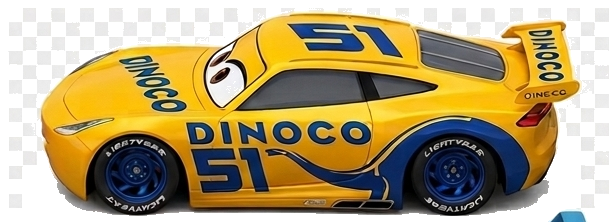
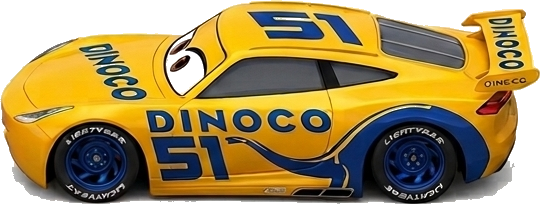
NASCAR dashboard, journal button, improved car detourage
Dashboard:
- Dark cockpit design with 15 LED speed indicators (green→red, blink at max)
- Vertical fuel + tire gauges on the left (bar + number + label)
- Tour (top-left) and Moteur (top-right) in teal/red display font
- Large central VITESSE like a NASCAR dash

Journal:
- Removed always-visible green strip; now a 📡 Journal button in header
- Opens modal with last 50 entries
- Rival entries now prefixed "[#NUM NOM]" for clarity

Car images:
- Re-extracted all 6 Pixar PNGs: better flood fill + grow-from-transparent pass
  reduced leftover background from 12–36% to <2% of visible pixels

https://claude.ai/code/session_016ULjS5sK1wzyLYwtGwC2Eo

diff --git a/index.html b/index.html
@@ -103,23 +103,42 @@ body{background:#d4d8df;color:#1e293b;font-family:'Segoe UI',Arial,sans-serif;mi
 .wall-consequence{background:rgba(30,58,138,.15);color:#1e3a8a}
 .apron-consequence{background:rgba(146,64,14,.15);color:#92400e}
 
-/* ─ JOURNAL (herbe) ──────────────────────── */
-.journal-wrap{background:#15803d;padding:.5rem .7rem;flex:1;min-height:0}
-.info-lbl{font-size:.68rem;text-transform:uppercase;letter-spacing:.08em;color:rgba(255,255,255,.55);margin-bottom:.3rem;font-weight:700}
-.log-box{max-height:120px;overflow-y:auto;display:flex;flex-direction:column;gap:.08rem}
-.le{font-size:.78rem;color:#bbf7d0;line-height:1.35;padding:.06rem 0;border-bottom:1px solid rgba(255,255,255,.07)}
-.le.imp{color:#fde68a}.le.dan{color:#fca5a5}.le.good{color:#86efac}.le.neu{color:rgba(255,255,255,.45)}
+/* ─ JOURNAL (modal uniquement) ──────────── */
+.le{font-size:.78rem;color:#bbf7d0;line-height:1.35;padding:.07rem .2rem;border-bottom:1px solid rgba(255,255,255,.06)}
+.le.imp{color:#fde68a}.le.dan{color:#fca5a5}.le.good{color:#86efac}.le.neu{color:rgba(255,255,255,.4)}
+.log-modal-bg{background:#15803d;padding:.5rem .6rem;border-radius:.45rem;max-height:52vh;overflow-y:auto;display:flex;flex-direction:column;gap:.04rem}
+.journal-btn{border:none;background:rgba(255,255,255,.1);color:#94a3b8;font-size:.68rem;cursor:pointer;padding:.18rem .4rem;border-radius:.3rem;font-weight:700;letter-spacing:.04em}
+.journal-btn:hover{background:rgba(255,255,255,.2);color:#fff}
 
-/* ─ HABITACLE (tableau de bord) ─────────── */
-.gauges-bar{background:#0f172a;padding:.55rem .5rem;margin:0}
-.gauges{display:grid;grid-template-columns:repeat(3,1fr);gap:.4rem}
-.gauge{display:flex;flex-direction:column;align-items:center;gap:.18rem;padding:.5rem .3rem .45rem;background:#1e293b;border-radius:.5rem;border:1px solid #334155}
-.gico{font-size:1.5rem;line-height:1}
-.gval{font-size:2rem;font-weight:900;color:#fb923c;line-height:1.1}
-.gval.gwarn{color:#dc2626;animation:pulse-pip 1s infinite}
-.glbl{font-size:.72rem;text-transform:uppercase;letter-spacing:.06em;color:#64748b;font-weight:700}
-.gbar-wrap{width:90%;height:7px;background:#334155;border-radius:4px;overflow:hidden}
-.gbar{height:100%;border-radius:4px;transition:width .35s,background .35s}
+/* ─ TABLEAU DE BORD NASCAR ──────────────── */
+.gauges-bar{background:#080c10;padding:.35rem .45rem .4rem}
+.dash-leds{display:flex;justify-content:center;gap:3px;margin-bottom:.3rem}
+.dash-led{width:12px;height:12px;border-radius:50%;transition:all .2s;flex-shrink:0}
+.dash-led.off{background:#111827}
+.dash-led.spd1{background:#22c55e;box-shadow:0 0 7px #22c55e}
+.dash-led.spd2{background:#84cc16;box-shadow:0 0 7px #84cc16}
+.dash-led.spd3{background:#eab308;box-shadow:0 0 7px #eab308}
+.dash-led.spd4{background:#f97316;box-shadow:0 0 7px #f97316}
+.dash-led.spd5{background:#ef4444;box-shadow:0 0 7px #ef4444}
+@keyframes led-pulse{0%,100%{opacity:1;transform:scale(1)}50%{opacity:.15;transform:scale(.75)}}
+.dash-led.pulse{animation:led-pulse .38s infinite}
+.dash-main{display:flex;gap:.3rem;align-items:stretch;min-height:75px}
+.dash-side{display:flex;flex-direction:column;gap:.2rem;width:26px;flex-shrink:0}
+.dash-vg{display:flex;flex-direction:column;align-items:center;gap:.05rem;flex:1}
+.dash-vg-lbl{font-size:.38rem;text-transform:uppercase;color:#374151;letter-spacing:.06em;font-weight:800;line-height:1.1}
+.dash-vg-track{flex:1;width:8px;background:#111827;border-radius:2px;overflow:hidden;position:relative;min-height:22px}
+.dash-vg-fill{position:absolute;bottom:0;left:0;right:0;border-radius:2px;transition:height .3s,background .3s}
+.dash-vg-val{font-size:.58rem;font-weight:700;color:#4b5563;line-height:1}
+.dash-center{flex:1;display:flex;flex-direction:column;gap:.1rem;align-items:center}
+.dash-top{display:grid;grid-template-columns:1fr 1fr;gap:.15rem;width:100%}
+.dash-cell{display:flex;flex-direction:column;align-items:center;gap:.02rem}
+.dash-cell-v{font-size:1.45rem;font-weight:900;color:#2dd4bf;line-height:1.05}
+.dash-cell-v.hot{color:#f87171}
+.dash-cell-v.warn{color:#ef4444;animation:pulse-pip 1s infinite}
+.dash-cell-l{font-size:.38rem;text-transform:uppercase;letter-spacing:.09em;color:#374151;font-weight:700;line-height:1}
+.dash-spd{display:flex;flex-direction:column;align-items:center;gap:.03rem;flex:1;justify-content:center}
+.dash-spd-v{font-size:3.8rem;font-weight:900;color:#2dd4bf;line-height:1}
+.dash-spd-l{font-size:.42rem;text-transform:uppercase;letter-spacing:.12em;color:#374151;font-weight:700}
 
 /* ─ ACTION BAR ───────────────────────────── */
 .action-bar{
@@ -258,8 +277,13 @@ body{background:#d4d8df;color:#1e293b;font-family:'Segoe UI',Arial,sans-serif;mi
       <div class="score-val" id="score-val">0</div>
     </div>
     <div class="hdr-right">
-      <div class="hdr-lbl">Flèches</div>
-      <div class="arr-phase" id="arr-phase">↑ Mur</div>
+      <div style="display:flex;align-items:center;justify-content:flex-end;gap:.5rem;flex-wrap:wrap">
+        <button class="journal-btn" onclick="showJournalModal()">📡 Journal</button>
+        <div>
+          <div class="hdr-lbl">Flèches</div>
+          <div class="arr-phase" id="arr-phase">↑ Mur</div>
+        </div>
+      </div>
     </div>
   </div>
 
@@ -275,16 +299,8 @@ body{background:#d4d8df;color:#1e293b;font-family:'Segoe UI',Arial,sans-serif;mi
       <div class="apron-strip" id="apron-strip"></div>
     </div>
 
-    <!-- Journal (herbe verte) -->
-    <div class="journal-wrap">
-      <div class="info-lbl">📡 Journal de course</div>
-      <div class="log-box" id="log-box"></div>
-    </div>
-
-    <!-- Habitacle (tableau de bord noir/orange) -->
-    <div class="gauges-bar">
-      <div class="gauges" id="gauges"></div>
-    </div>
+    <!-- Tableau de bord NASCAR -->
+    <div class="gauges-bar" id="gauges"></div>
 
   </div>
 
@@ -595,7 +611,7 @@ function processOneRival(){
   }
   if(choiceNeeded){render();showChoiceModal();return;}
   const gaugeDeltas=computeGaugeDeltas(gaugesBefore);
-  S.movedCar=name;S.rivalIdx++;glogAll();
+  S.movedCar=name;S.rivalIdx++;glogAll(name);
   showRivalModal(name,die,gaugeDeltas);
 }
 
@@ -653,7 +669,7 @@ function resolveChoice(dir){
   if(nr===0||nr===ROWS-1)applyPushAgainstEdge(rivalName,nr);
   resolveArrow(rivalName);
   const gaugeDeltas=computeGaugeDeltas(gaugesBefore);
-  S.movedCar=rivalName;S.rivalIdx++;glogAll();
+  S.movedCar=rivalName;S.rivalIdx++;glogAll(rivalName);
   showRivalModal(rivalName,die,gaugeDeltas);
 }
 
@@ -821,13 +837,8 @@ function showEndModal(){
 
 // ── ANIMATIONS ─────────────────────────────────────────────────
 function launchGaugeFlies(deltas){
-  const gaugeEl=document.getElementById('gauges');
-  if(!gaugeEl)return;
-  const items=gaugeEl.querySelectorAll('.gauge');
-  const keys=['tires','fuel','engine'];
   for(const[k,v] of Object.entries(deltas)){
-    const idx=keys.indexOf(k);
-    const toEl=items[idx];if(!toEl)continue;
+    const toEl=document.getElementById('gauge-'+k);if(!toEl)continue;
     const fromEl=document.getElementById('ov').querySelector('.modal')||document.getElementById('action-box');
     flyBadge(`${v>0?'+':''}${v} ${GAUGE_ICONS[k]}`,fromEl||document.body,toEl,v>0?'#16a34a':'#dc2626');
   }
@@ -851,12 +862,23 @@ function flyBadge(text,fromEl,toEl,color){
 // ── LOG ────────────────────────────────────────────────────────
 function glog(msg,cls='')   {S.log.unshift({msg,cls});if(S.log.length>80)S.log.pop();}
 function stepLog(txt,cls=''){S.stepLogs.push({txt,cls});}
-function glogAll()          {for(const l of S.stepLogs)glog(l.txt,l.cls);}
+function glogAll(carId=''){
+  const pre=carId?`[#${CAR_LBL[carId]} ${CAR_FNAME[carId]}] `:'';
+  for(const l of S.stepLogs)glog(pre+l.txt,l.cls);
+}
+function showJournalModal(){
+  const entries=S.log.slice(0,50).map(l=>`<div class="le ${l.cls}">${l.msg}</div>`).join('');
+  showModal(`
+    <div class="modal-title">📡 Journal de course</div>
+    <div class="log-modal-bg">${entries||'<div class="le neu">—</div>'}</div>
+    <div class="modal-btns"><button class="btn btn-s" onclick="closeModal()">Fermer ✕</button></div>
+  `,'');
+}
 
 // ── RENDER ─────────────────────────────────────────────────────
 function render(){
   renderTrack();renderGauges();renderLap();
-  renderStandings();renderSideWall();renderLog();renderPhase();renderSpeed();renderScore();renderArrowPhase();
+  renderStandings();renderSideWall();renderPhase();renderSpeed();renderScore();renderArrowPhase();
 }
 
 function renderSpeed(){
@@ -946,21 +968,52 @@ function renderTrack(){
 
 function renderGauges(){
   const el=document.getElementById('gauges');
-  const g=S.gauges;
-  const LBLS={tires:'Pneus',fuel:'Carbu',engine:'Moteur'};
-  const CLRS={tires:'#22c55e',fuel:'#3b82f6',engine:'#ef4444'};
-  el.innerHTML=['tires','fuel','engine'].map(k=>{
-    const v=g[k];
-    const pct=Math.round(v/6*100);
-    const warn=v<=2;
-    const barClr=warn?'#f97316':CLRS[k];
-    return`<div class="gauge" id="gauge-${k}">
-      <div class="gico">${GAUGE_ICONS[k]}</div>
-      <div class="gval${warn?' gwarn':''}">${v}</div>
-      <div class="gbar-wrap"><div class="gbar" style="width:${pct}%;background:${barClr}"></div></div>
-      <div class="glbl">${LBLS[k]}</div>
-    </div>`;
+  if(!el)return;
+  const g=S.gauges, spd=S.speed||1;
+  // 15 LEDs: 3 per speed level (1=green … 5=red), pulse at max
+  const LEDCLS=['spd1','spd2','spd3','spd4','spd5'];
+  const leds=Array.from({length:15},(_,i)=>{
+    const s=Math.floor(i/3)+1;
+    const on=s<=spd;
+    return`<div class="dash-led ${on?LEDCLS[s-1]:'off'}${on&&spd===5&&s===5?' pulse':''}"></div>`;
   }).join('');
+  const fp=Math.round(g.fuel/6*100), tp=Math.round(g.tires/6*100);
+  const fc=g.fuel<=2?'#f97316':'#3b82f6', tc=g.tires<=2?'#f97316':'#22c55e';
+  const ew=g.engine<=2?' warn':'';
+  el.innerHTML=`
+    <div class="dash-leds">${leds}</div>
+    <div class="dash-main">
+      <div class="dash-side">
+        <div class="dash-vg" id="gauge-fuel">
+          <div class="dash-vg-lbl">⛽</div>
+          <div class="dash-vg-track"><div class="dash-vg-fill" style="height:${fp}%;background:${fc}"></div></div>
+          <div class="dash-vg-val">${g.fuel}</div>
+          <div class="dash-vg-lbl">Carbu</div>
+        </div>
+        <div class="dash-vg" id="gauge-tires">
+          <div class="dash-vg-lbl">🛞</div>
+          <div class="dash-vg-track"><div class="dash-vg-fill" style="height:${tp}%;background:${tc}"></div></div>
+          <div class="dash-vg-val">${g.tires}</div>
+          <div class="dash-vg-lbl">Pneus</div>
+        </div>
+      </div>
+      <div class="dash-center">
+        <div class="dash-top">
+          <div class="dash-cell">
+            <div class="dash-cell-v">${(S.lapStep+1)*10}</div>
+            <div class="dash-cell-l">Tour</div>
+          </div>
+          <div class="dash-cell" id="gauge-engine">
+            <div class="dash-cell-v hot${ew}">${g.engine}</div>
+            <div class="dash-cell-l">Moteur</div>
+          </div>
+        </div>
+        <div class="dash-spd">
+          <div class="dash-spd-v">${spd}</div>
+          <div class="dash-spd-l">Vitesse</div>
+        </div>
+      </div>
+    </div>`;
 }
 
 function renderLap(){
